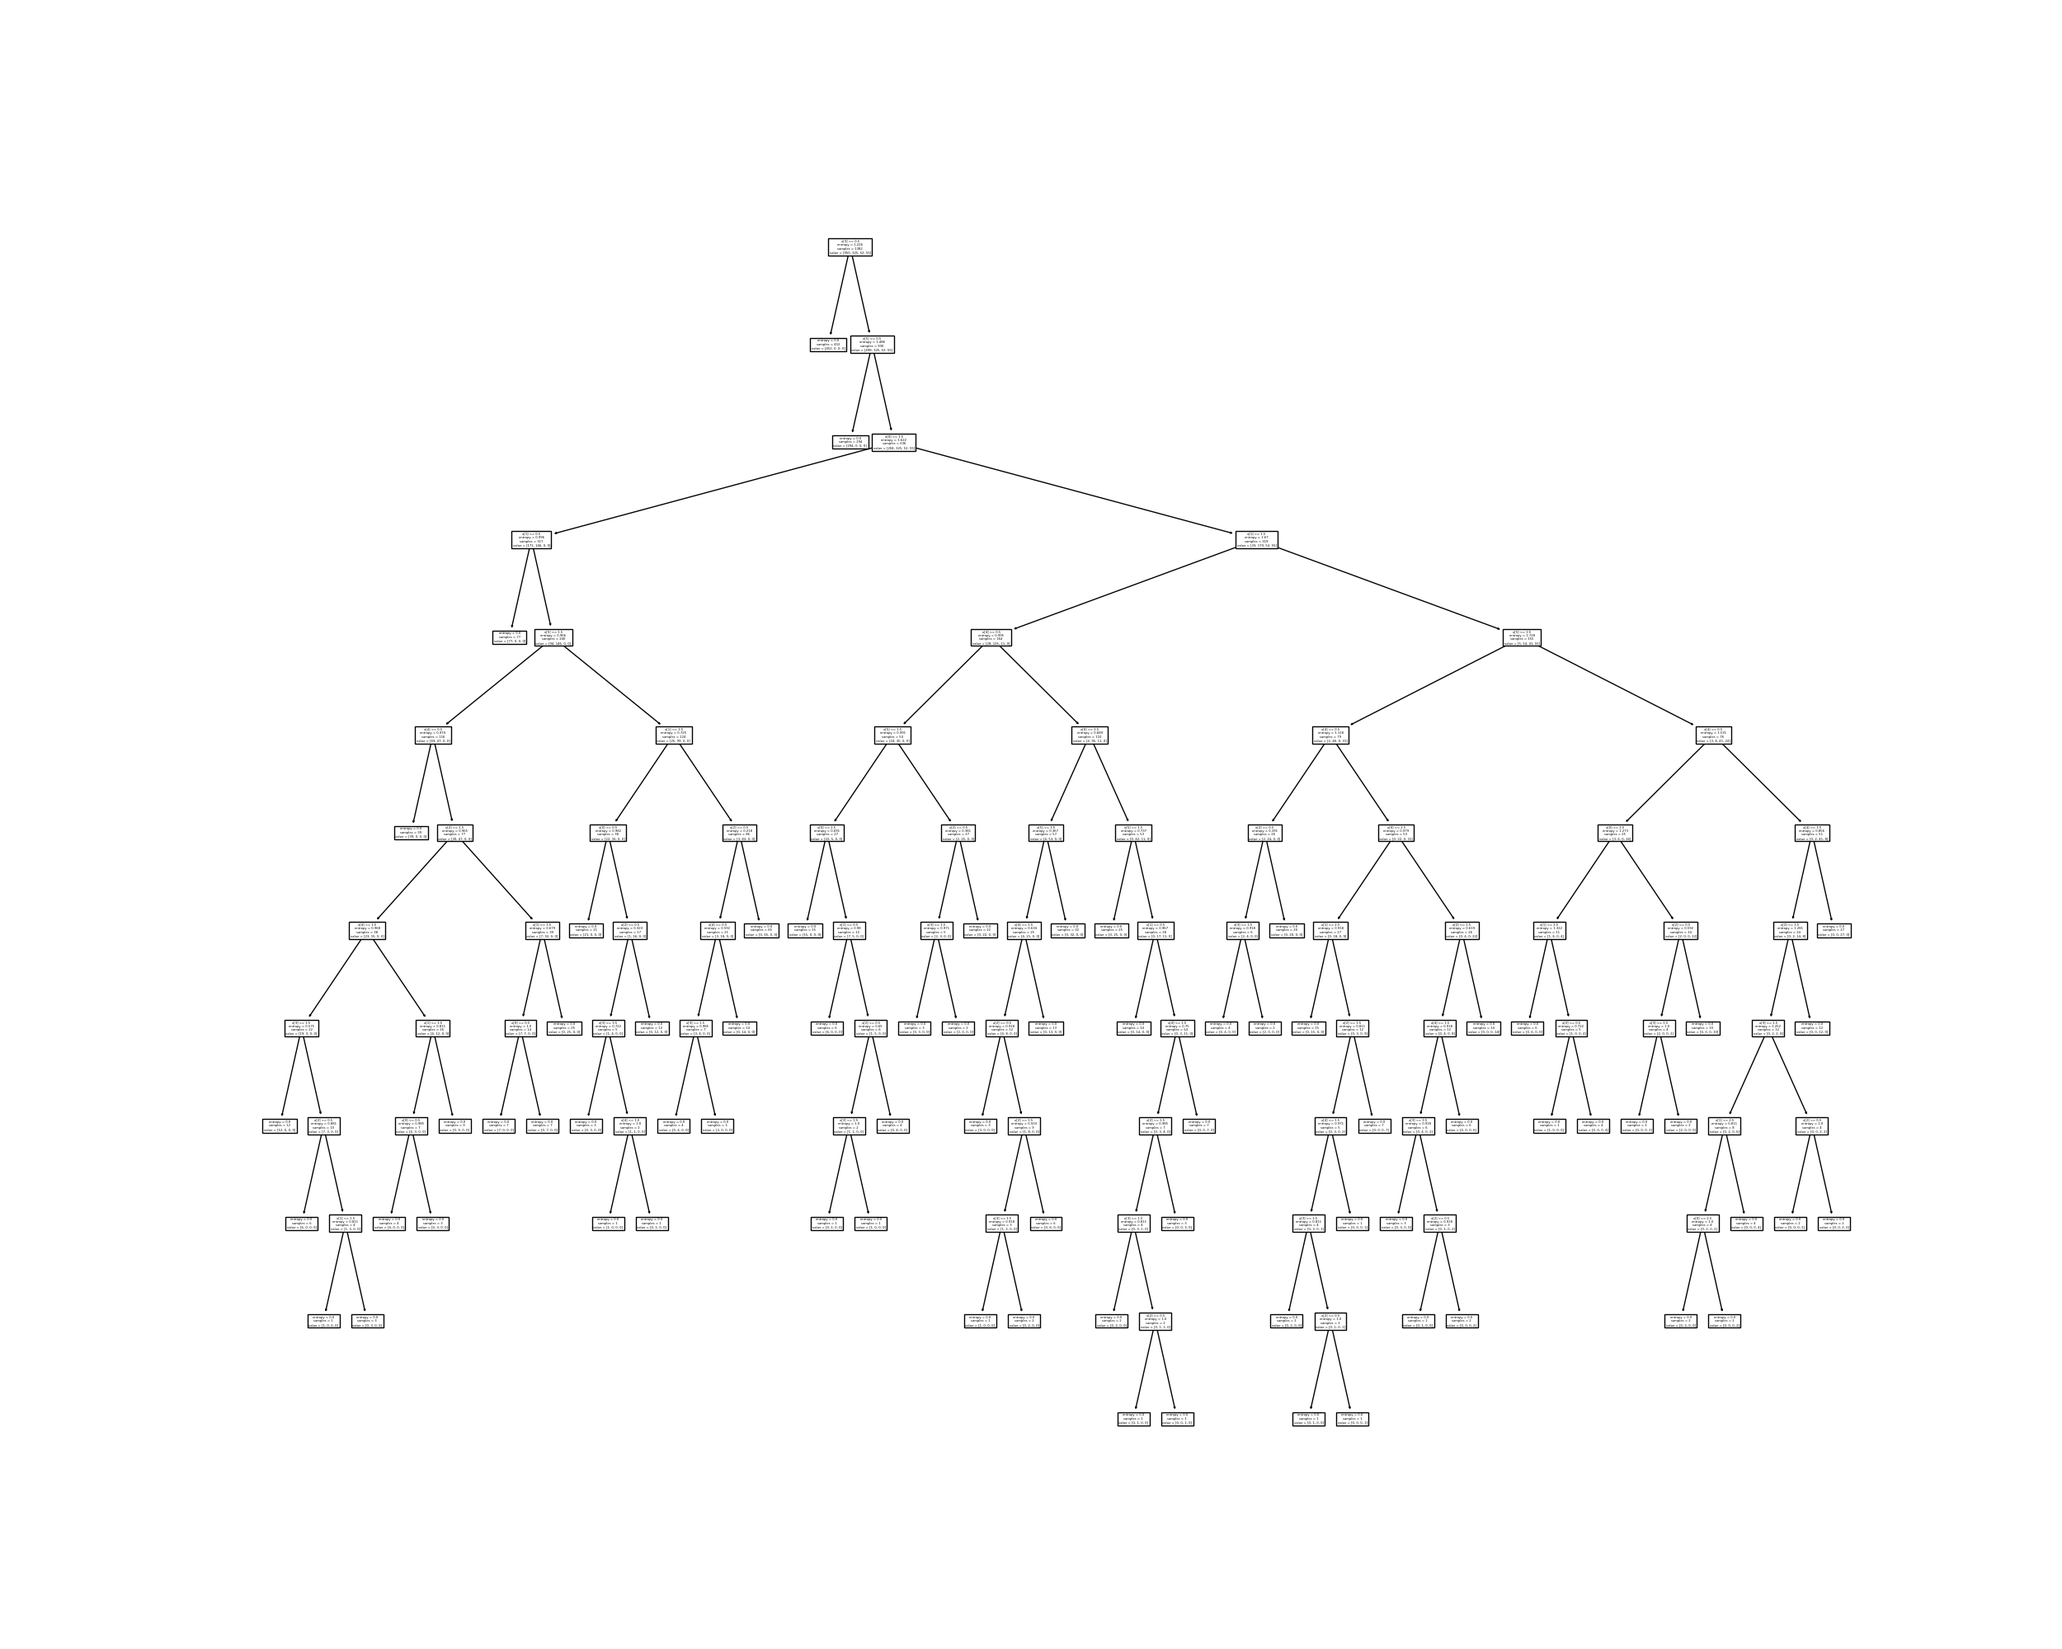
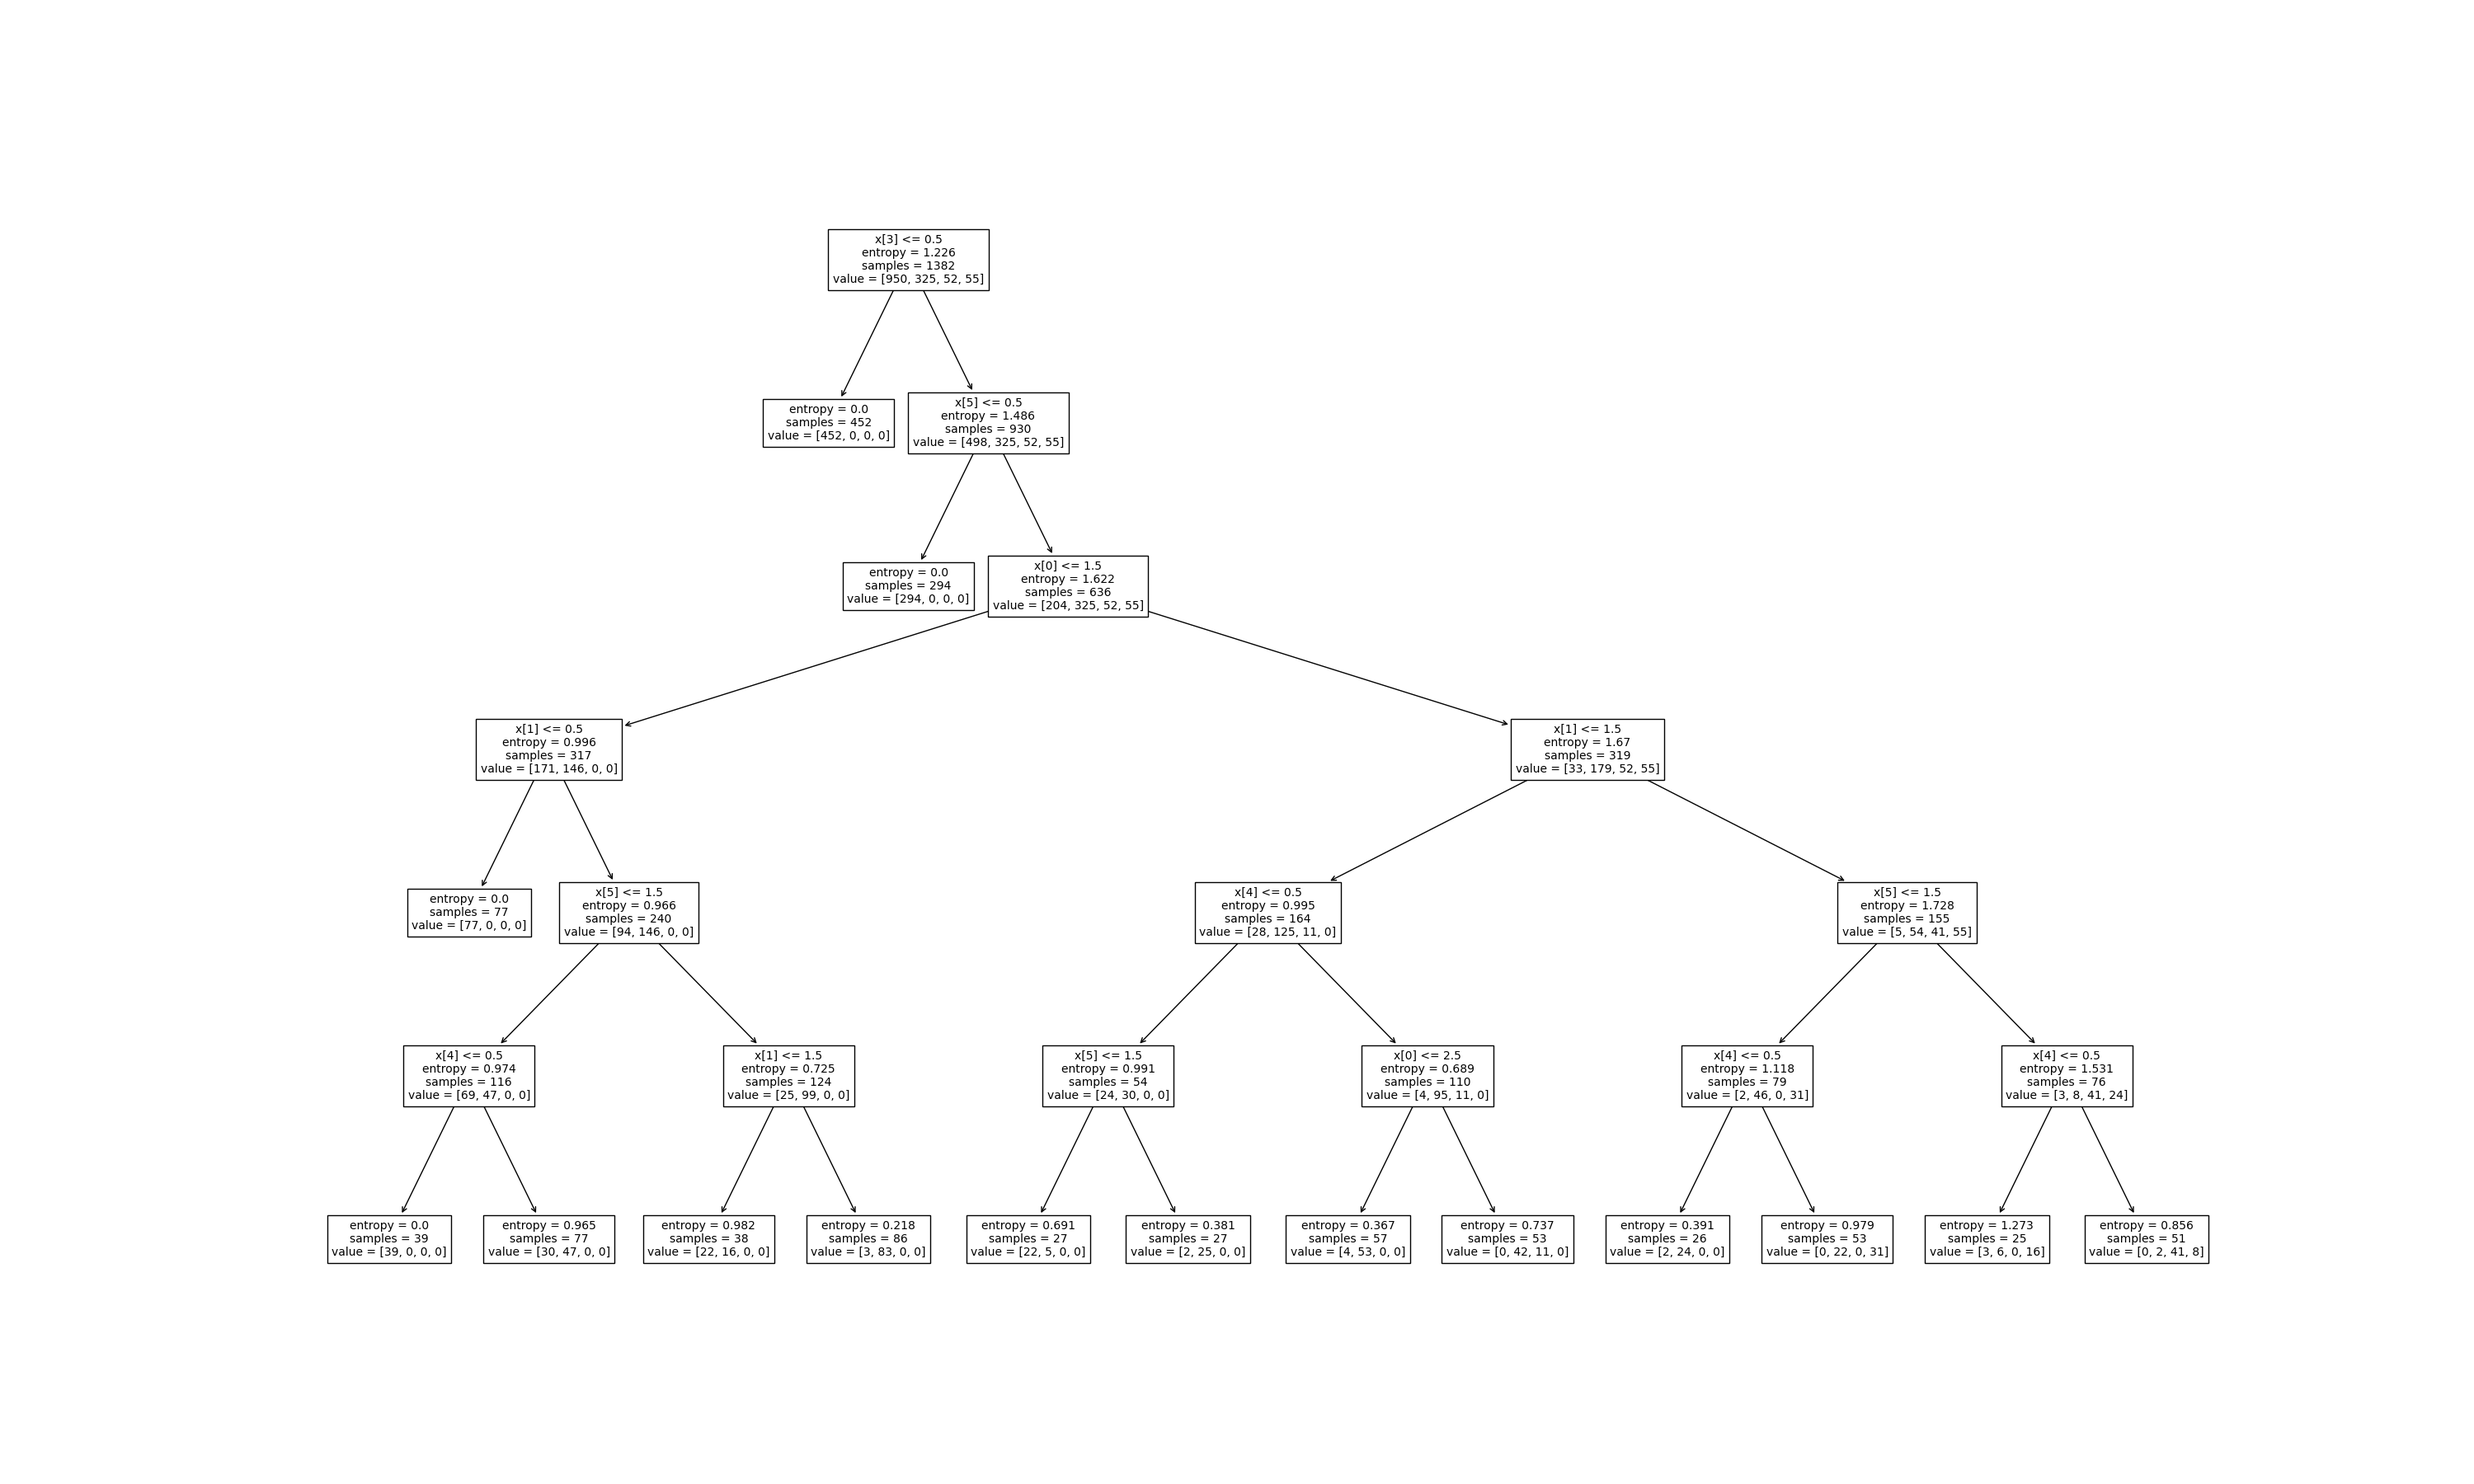
gege

diff --git a/Offline 4/code/decision_tree.py b/Offline 4/code/decision_tree.py
@@ -20,7 +20,7 @@ y = pima['outcome']# Target variable
 X_train, X_test, y_train, y_test = train_test_split(X, y, train_size=0.8, test_size=0.2, random_state=1) # 70% training and 30% test
 
 # Create Decision Tree classifer object
-clf = DecisionTreeClassifier(criterion="entropy")
+clf = DecisionTreeClassifier(criterion="entropy", max_depth=6)
 
 # Train Decision Tree Classifer
 clf = clf.fit(X_train,y_train)
@@ -31,9 +31,9 @@ y_pred = clf.predict(X_test)
 
 # Model Accuracy, how often is the classifier correct?
 print("Accuracy:",metrics.accuracy_score(y_test, y_pred) * 100.0)
-# fig = plt.figure(figsize=(25,20))
-# tree.plot_tree(clf)
-# fig.savefig("decistion_tree.png")
+fig = plt.figure(figsize=(30,18))
+tree.plot_tree(clf)
+fig.savefig("decistion_tree.png")
 
 
 
